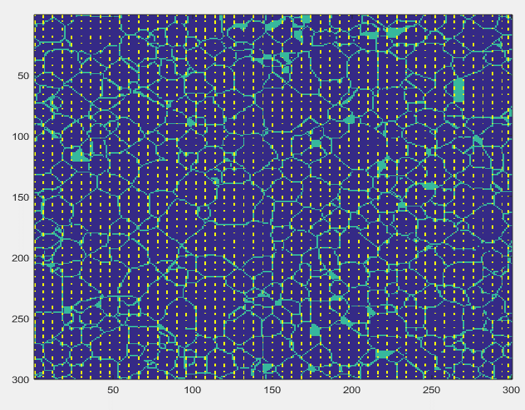
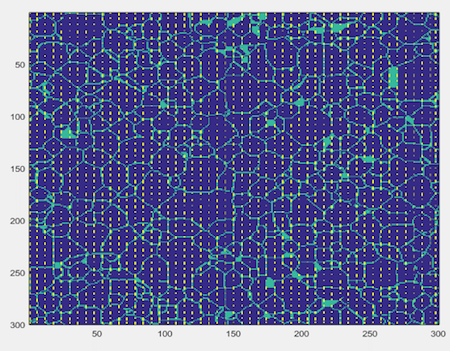
resize images

Changed region(s): [[0.0622, 0.0285, 0.9956, 0.9402]]

diff --git a/_posts/2015-12-06-final-post.md b/_posts/2015-12-06-final-post.md
@@ -26,6 +26,8 @@ In this blog post the motivation for the project, the development of the model, 
 
 In order to demonstrate the motivation as well as the importance of this project, a brief explanation regarding the grain growth process will be provided.
 
+![Picture]({{ site.url }}/MIC-grain-growth/img/blogpostimages/final/grain-growth.gif)
+
 Grain Boundary Pinning is a phenomenon in which insoluble particles are added to a microstructure. These particles affect the final grain size of the microstructure and it is a common practice in industry to add this particles in order to control the final grain size distribution, hence the motivation and importance of our project.
 
 These particles are able to affect the grain growth of a microstructure because they reduce the surface area when a grain boundary crosses path with them. This is important because the driving force of this phenomenon is the grain boundary interfacial free energy. 
@@ -60,22 +62,27 @@ The simulation pool was built from 5 different initial distribution of parameter
 The 5 classes used are the following:
 
 **Band Clustering**
+
 ![Picture]({{ site.url }}/MIC-grain-growth/img/blogpostimages/final/bc1.png)
 ![Picture]({{ site.url }}/MIC-grain-growth/img/blogpostimages/final/bc2.png)
 
 **Quadrant Clustering**
+
 ![Picture]({{ site.url }}/MIC-grain-growth/img/blogpostimages/final/qc1.png)
 ![Picture]({{ site.url }}/MIC-grain-growth/img/blogpostimages/final/qc2.png)
 
 **Rolling**
+
 ![Picture]({{ site.url }}/MIC-grain-growth/img/blogpostimages/final/roll1.png)
 ![Picture]({{ site.url }}/MIC-grain-growth/img/blogpostimages/final/roll2.png)
 
 **Uniform**
+
 ![Picture]({{ site.url }}/MIC-grain-growth/img/blogpostimages/final/uni1.png)
 ![Picture]({{ site.url }}/MIC-grain-growth/img/blogpostimages/final/uni2.png)
 
 **Random**
+
 ![Picture]({{ site.url }}/MIC-grain-growth/img/blogpostimages/final/rand1.png)
 ![Picture]({{ site.url }}/MIC-grain-growth/img/blogpostimages/final/rand2.png)
 
@@ -142,7 +149,7 @@ Output:
 
 ![Picture]({{ site.url }}/MIC-grain-growth/img/blogpostimages/final/pca-plots-out-3d.gif)
 
-**PCA: Screen Plot**
+**PCA: Scree Plot**
 
 To see how well PCA captures the variance of our dataset we can produce scree plots: cumulative percent variance for given amount of PC values.
 
@@ -167,10 +174,8 @@ Now that we have PCA data for our inputs and outputs we can perform regression t
 From the code we receive the following output:
 
 ```
-Order of Polynomial: 2
-
-Number of Components: 3
-
+Order of Polynomial: 2  
+Number of Components: 3  
 MSE Value: 0.001392
 ```
 
